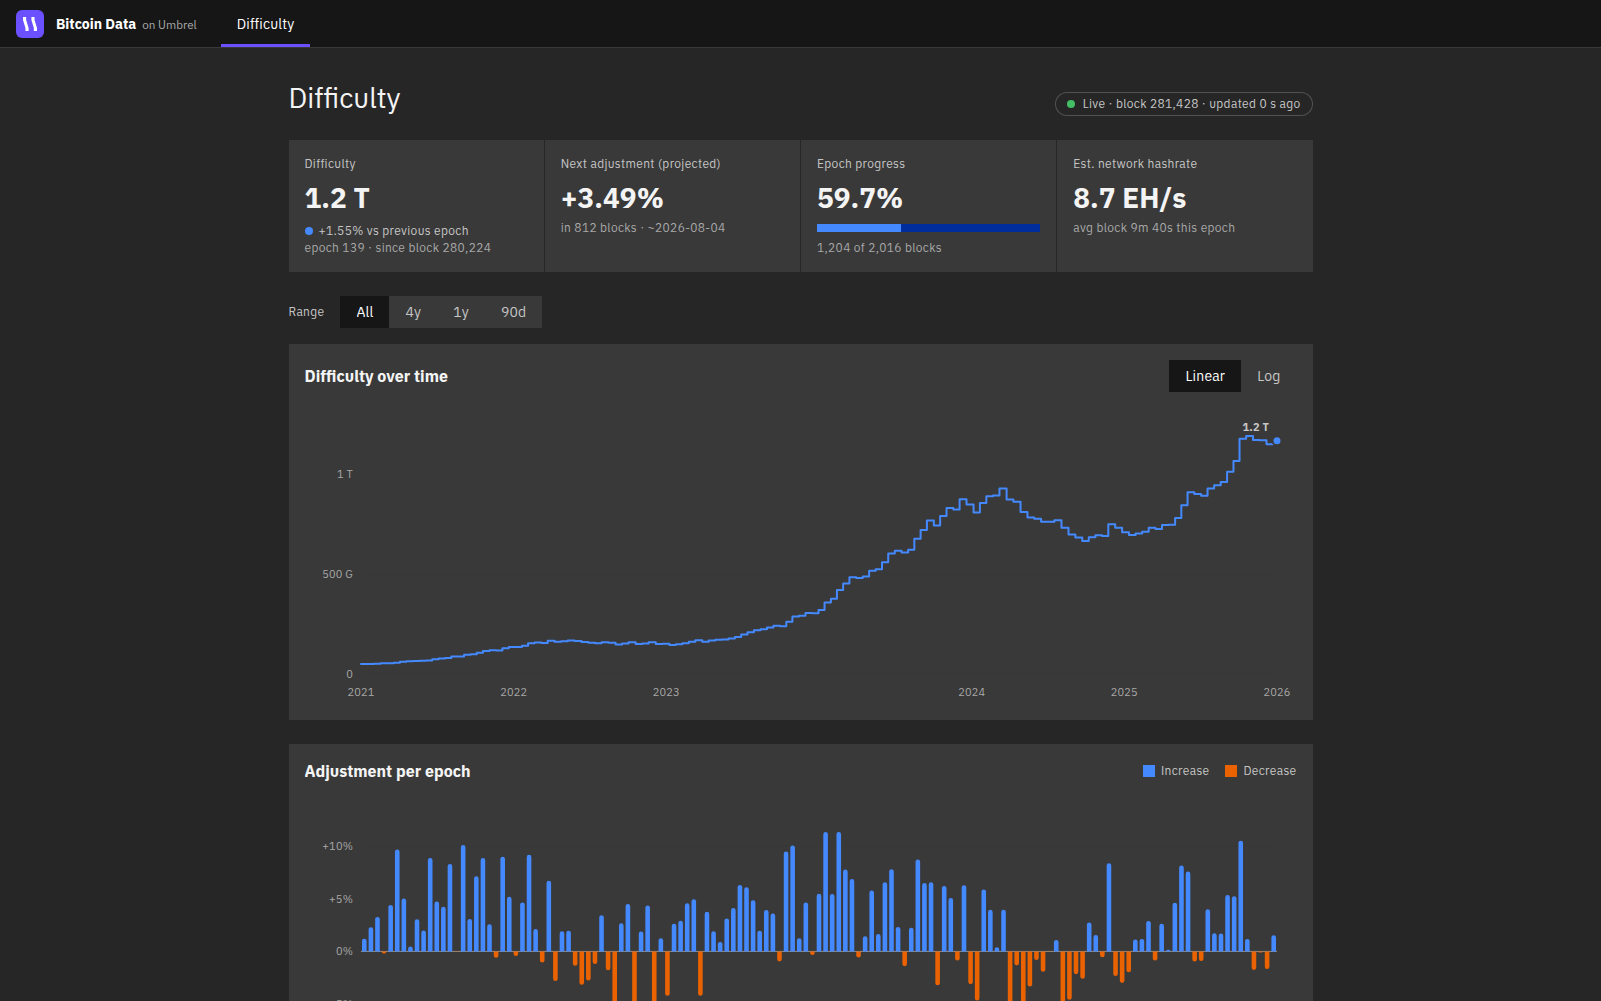
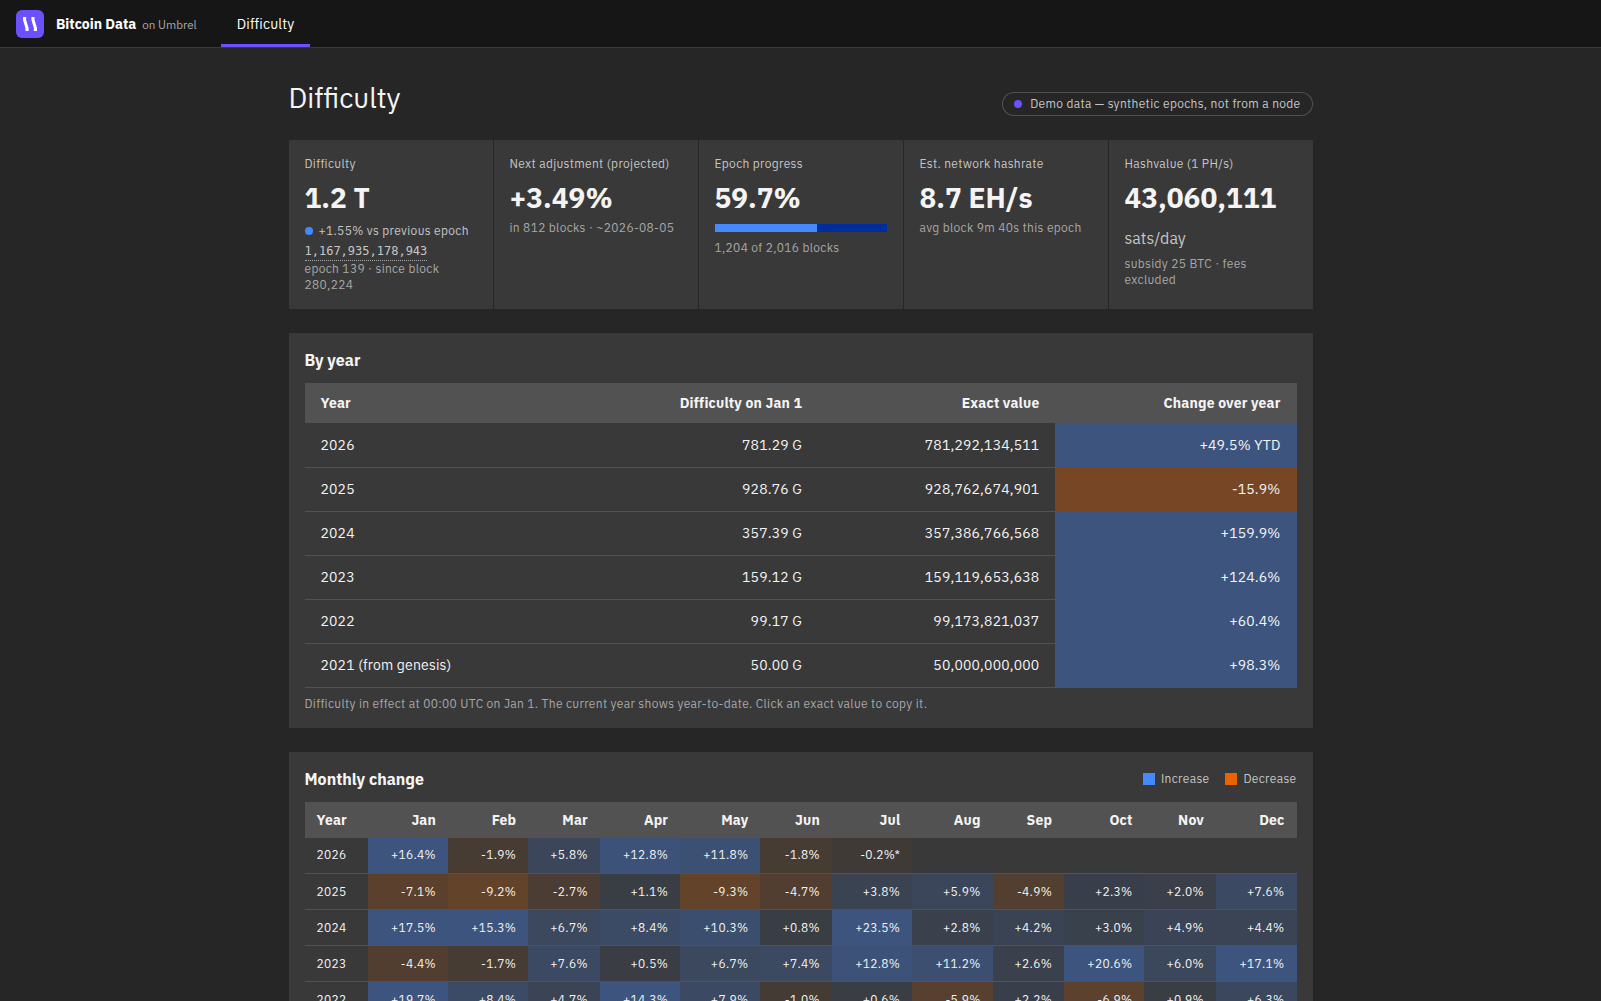
Add hashvalue, copyable exact difficulty, and annual/monthly views
- Hashvalue tile + epoch-table column + export field: expected subsidy
  earnings of 1 PH/s in sats/day (fees excluded), derived from each
  epoch's difficulty and its halving-era subsidy.
- Exact difficulty values: click-to-copy full integer in the Difficulty
  tile (current epoch) and on every Difficulty cell in the epoch table.
  Clipboard falls back to execCommand on plain-http origins (umbrel.local).
- By year card: difficulty in effect on Jan 1 (compact + copyable exact
  value) and change over the year, YTD for the current year.
- Monthly change card: year-by-month grid of difficulty change, diverging
  blue/orange tint behind text-token values, * marks month-to-date.
- Refresh gallery screenshots.

diff --git a/image-braiins-bitcoin-data/webui.py b/image-braiins-bitcoin-data/webui.py
@@ -43,6 +43,17 @@ FONTS = ("braiinssans-regular.woff2", "braiinssans-bold.woff2")
 EPOCH_BLOCKS = 2016
 TARGET_INTERVAL = 600  # seconds per block the retarget aims for
 TWO32 = 2 ** 32
+HALVING_BLOCKS = 210000
+
+
+def subsidy_btc(height):
+    return 50 / 2 ** (height // HALVING_BLOCKS)
+
+
+def hashvalue_sats(difficulty, height):
+    """Expected subsidy earnings of 1 PH/s in sats/day (fees excluded)."""
+    blocks_per_day = 1e15 * 86400 / (difficulty * TWO32)
+    return blocks_per_day * subsidy_btc(height) * 1e8
 
 
 class RpcError(Exception):
@@ -194,6 +205,7 @@ def build_rows(state):
         change = (difficulty / prev_diff - 1) if prev_diff else None
         row = {"epoch": i, "start_height": height, "start_time": start_time,
                "difficulty": difficulty, "change": change,
+               "hashvalue": hashvalue_sats(difficulty, height),
                "end_time": None, "blocks": None, "avg_interval": None,
                "hashrate": None, "current": False}
         if i + 1 < len(b):
@@ -249,6 +261,8 @@ def build_summary(state, rows):
         "avg_interval": avg, "hashrate": cur["hashrate"],
         "projected_change": projected,
         "eta": tip[1] + remaining * (avg or TARGET_INTERVAL),
+        "hashvalue": hashvalue_sats(cur["difficulty"], tip[0]),
+        "subsidy": subsidy_btc(tip[0]),
     })
     closed = [r for r in rows if r["change"] is not None and not r["current"]]
     if closed:
@@ -286,6 +300,7 @@ def export_rows(rows):
             "difficulty": r["difficulty"],
             "change_pct": round(r["change"] * 100, 4) if r["change"] is not None else None,
             "est_hashrate_hs": ("%.4g" % r["hashrate"]) if r["hashrate"] else None,
+            "hashvalue_sats_per_phs_day": round(r["hashvalue"], 1),
             "in_progress": r["current"],
         })
     return out
@@ -294,7 +309,7 @@ def export_rows(rows):
 def export_csv(rows):
     cols = ["epoch", "start_height", "start_time_utc", "end_time_utc", "blocks",
             "avg_block_interval_s", "difficulty", "change_pct",
-            "est_hashrate_hs", "in_progress"]
+            "est_hashrate_hs", "hashvalue_sats_per_phs_day", "in_progress"]
     lines = [",".join(cols)]
     for r in export_rows(rows):
         lines.append(",".join("" if r[c] is None else str(r[c]) for c in cols))
@@ -459,8 +474,7 @@ h2 { font: 400 28px/1.29 var(--font-sans); letter-spacing: 0; margin: 0; }
 #pill.demo .dot { background: var(--violet-60); }
 
 /* Stat tiles: flat layer fill, sharp corners, no shadow */
-.tiles { display: grid; grid-template-columns: repeat(4, 1fr); gap: 1px; margin-bottom: var(--spacing-06); }
-@media (max-width: 900px) { .tiles { grid-template-columns: repeat(2, 1fr); } }
+.tiles { display: grid; grid-template-columns: repeat(auto-fit, minmax(200px, 1fr)); gap: 1px; margin-bottom: var(--spacing-06); }
 @media (max-width: 480px) { .tiles { grid-template-columns: 1fr; } }
 .tile { background: var(--layer-01); padding: var(--spacing-05); min-height: 120px; }
 .tile .label { font: 400 12px/1.3333 var(--font-sans); letter-spacing: .32px; color: var(--text-secondary); }
@@ -472,6 +486,15 @@ h2 { font: 400 28px/1.29 var(--font-sans); letter-spacing: 0; margin: 0; }
 .dirdot { width: 8px; height: 8px; border-radius: 50%; flex-shrink: 0; }
 .dirdot.up { background: var(--data-pos); }
 .dirdot.down { background: var(--data-neg); }
+/* click-to-copy: exact values in mono, tooltips enhance, copy never gated */
+.copyline { display: inline-block; font: 400 12px/1.3333 var(--font-mono);
+  letter-spacing: 0; color: var(--text-secondary); cursor: pointer;
+  border-bottom: 1px dotted var(--border-strong); margin-top: var(--spacing-02);
+  font-variant-numeric: tabular-nums; }
+.copyline:hover { color: var(--link-primary); border-bottom-color: var(--link-primary); }
+.copyline:focus-visible { outline: 2px solid var(--focus); outline-offset: 1px; }
+td.copyable { cursor: pointer; }
+td.copyable:hover { text-decoration: underline dotted var(--border-strong); }
 .meter { height: 8px; background: var(--meter-track); margin: var(--spacing-03) 0 var(--spacing-03); }
 .meter i { display: block; height: 100%; background: var(--data-pos);
   transition: width var(--duration-fast-02) var(--ease-productive); }
@@ -543,6 +566,10 @@ tbody td .dirdot { display: inline-block; margin-right: 6px; }
 .ghost:hover { background: var(--layer-hover); color: var(--link-primary-hover); }
 .ghost:focus-visible { outline: 2px solid var(--focus); outline-offset: -2px; }
 
+/* calendar: year rows x month columns, diverging tint behind text-token values */
+.cal td, .cal th { height: 36px; padding: 0 var(--spacing-04); }
+.cal td { font: 400 12px/1.3333 var(--font-sans); letter-spacing: .32px; }
+.cal td.empty { color: var(--text-helper); background: var(--table-row); }
 .note { font: 400 12px/1.3333 var(--font-sans); letter-spacing: .32px; color: var(--text-helper);
   margin: var(--spacing-03) 0 0; }
 footer { margin-top: var(--spacing-07); font: 400 12px/1.3333 var(--font-sans);
@@ -563,6 +590,8 @@ footer { margin-top: var(--spacing-07); font: 400 12px/1.3333 var(--font-sans);
     <div class="tile"><div class="label">Difficulty</div>
       <div class="value" id="t-diff">—</div>
       <div class="delta" id="t-diff-delta"></div>
+      <span class="copyline" id="t-diff-full" role="button" tabindex="0"
+        title="Click to copy the exact value"></span>
       <div class="sub" id="t-diff-sub"></div></div>
     <div class="tile"><div class="label">Next adjustment (projected)</div>
       <div class="value" id="t-proj">—</div>
@@ -574,6 +603,27 @@ footer { margin-top: var(--spacing-07); font: 400 12px/1.3333 var(--font-sans);
     <div class="tile"><div class="label">Est. network hashrate</div>
       <div class="value" id="t-hash">—</div>
       <div class="sub" id="t-hash-sub">current epoch average</div></div>
+    <div class="tile"><div class="label">Hashvalue (1 PH/s)</div>
+      <div class="value" id="t-hv">—<small>sats/day</small></div>
+      <div class="sub" id="t-hv-sub">subsidy only, fees excluded</div></div>
+  </div>
+
+  <div class="card">
+    <div class="cardhead"><h3>By year</h3></div>
+    <div class="tablewrap"><table id="years">
+      <thead><tr><th>Year</th><th>Difficulty on Jan 1</th><th>Exact value</th><th>Change over year</th></tr></thead>
+      <tbody></tbody>
+    </table></div>
+    <p class="note">Difficulty in effect at 00:00 UTC on Jan 1. The current year shows year-to-date. Click an exact value to copy it.</p>
+  </div>
+
+  <div class="card">
+    <div class="cardhead"><h3>Monthly change</h3>
+      <span class="key"><span><i class="pos"></i>Increase</span><span><i class="neg"></i>Decrease</span></span></div>
+    <div class="tablewrap"><table id="months" class="cal">
+      <thead><tr></tr></thead><tbody></tbody>
+    </table></div>
+    <p class="note">Difficulty change from the first to the last moment of each month (UTC). * = month to date.</p>
   </div>
 
   <div class="filters">
@@ -655,6 +705,39 @@ function ago(ts) {
   if (s < 5400) return Math.round(s / 60) + " min ago";
   return Math.round(s / 3600) + " h ago";
 }
+function fmtFullInt(x) { return x == null ? "—" : Math.round(x).toLocaleString("en-US"); }
+
+// navigator.clipboard needs a secure context; umbrel.local is plain http,
+// so fall back to a temporary textarea + execCommand there.
+function copyText(text, el) {
+  const done = () => {
+    if (!el) return;
+    const orig = el.dataset.copyOrig || el.textContent;
+    el.dataset.copyOrig = orig;
+    el.textContent = "Copied";
+    setTimeout(() => { el.textContent = orig; }, 1200);
+  };
+  if (navigator.clipboard && window.isSecureContext) {
+    navigator.clipboard.writeText(text).then(done);
+  } else {
+    const ta = document.createElement("textarea");
+    ta.value = text; ta.style.position = "fixed"; ta.style.opacity = "0";
+    document.body.appendChild(ta); ta.select();
+    try { document.execCommand("copy"); done(); } finally { ta.remove(); }
+  }
+}
+
+// difficulty in effect at unix time t (last epoch starting at or before t)
+function diffAt(t) {
+  const rows = S.rows;
+  if (!rows.length || t < rows[0].start_time) return null;
+  let lo = 0, hi = rows.length - 1;
+  while (lo < hi) {
+    const mid = (lo + hi + 1) >> 1;
+    if (rows[mid].start_time <= t) lo = mid; else hi = mid - 1;
+  }
+  return rows[lo].difficulty;
+}
 
 // -- data ---------------------------------------------------------------------
 async function fetchAll() {
@@ -710,6 +793,90 @@ function renderTiles() {
   set("t-hash", fmtHash(s.hashrate));
   set("t-hash-sub", s.avg_interval != null
     ? "avg block " + fmtInterval(s.avg_interval) + " this epoch" : "current epoch average");
+  const hv = document.getElementById("t-hv");
+  hv.textContent = "";
+  hv.appendChild(document.createTextNode(s.hashvalue != null ? fmtFullInt(s.hashvalue) : "—"));
+  const unit = document.createElement("small"); unit.textContent = " sats/day";
+  hv.appendChild(unit);
+  set("t-hv-sub", s.subsidy != null
+    ? "subsidy " + s.subsidy + " BTC · fees excluded" : "subsidy only, fees excluded");
+  const full = document.getElementById("t-diff-full");
+  delete full.dataset.copyOrig;
+  full.textContent = s.difficulty != null ? fmtFullInt(s.difficulty) : "";
+}
+
+// -- calendar: annual table + year-by-month diverging grid ----------------------
+function tint(varName, mag) {
+  // series-hue wash behind text-token values; capped so text stays readable
+  const hex = cssVar(varName);
+  const r = parseInt(hex.slice(1, 3), 16), g = parseInt(hex.slice(3, 5), 16), b = parseInt(hex.slice(5, 7), 16);
+  const a = Math.min(0.35, 0.04 + mag * 2.2);
+  return "rgba(" + r + "," + g + "," + b + "," + a + ")";
+}
+function changeCell(td, change, suffix) {
+  td.style.background = tint(change >= 0 ? "--data-pos" : "--data-neg", Math.abs(change));
+  td.style.textAlign = "right";
+  td.appendChild(document.createTextNode(fmtPct(change, 1) + (suffix || "")));
+  td.title = fmtPct(change, 2);
+}
+function renderCalendar() {
+  if (!S.rows.length) return;
+  const rows = S.rows, now = tipTime();
+  const curDiff = rows[rows.length - 1].difficulty;
+  const first = rows[0].start_time;
+  const valAt = t => t >= now ? curDiff : (diffAt(t) != null ? diffAt(t) : rows[0].difficulty);
+  const y0 = new Date(first * 1000).getUTCFullYear();
+  const y1 = new Date(now * 1000).getUTCFullYear();
+
+  // annual table, newest first; current year is YTD
+  const ytbody = document.querySelector("#years tbody");
+  ytbody.textContent = "";
+  for (let y = y1; y >= y0; y--) {
+    const t0 = Date.UTC(y, 0, 1) / 1000, t1 = Date.UTC(y + 1, 0, 1) / 1000;
+    const start = valAt(Math.max(t0, first)), end = valAt(t1), ytd = t1 > now;
+    const tr = document.createElement("tr");
+    const cells = [String(y) + (t0 < first ? " (from genesis)" : ""), fmtCompact(start, 2)];
+    for (const c of cells) {
+      const td = document.createElement("td"); td.textContent = c; tr.appendChild(td);
+    }
+    const exact = document.createElement("td");
+    exact.className = "copyable"; exact.textContent = fmtFullInt(start);
+    exact.title = "Click to copy " + Math.round(start);
+    exact.addEventListener("click", () => copyText(String(Math.round(start)), exact));
+    tr.appendChild(exact);
+    const ch = document.createElement("td");
+    changeCell(ch, end / start - 1, ytd ? " YTD" : "");
+    tr.appendChild(ch);
+    ytbody.appendChild(tr);
+  }
+  document.querySelector("#years thead th:first-child").style.textAlign = "left";
+
+  // monthly grid: rows = years (newest first), columns = Jan..Dec
+  const MONTHS = ["Jan","Feb","Mar","Apr","May","Jun","Jul","Aug","Sep","Oct","Nov","Dec"];
+  const mhead = document.querySelector("#months thead tr");
+  mhead.textContent = "";
+  const th0 = document.createElement("th"); th0.textContent = "Year";
+  th0.style.textAlign = "left"; mhead.appendChild(th0);
+  for (const m of MONTHS) { const th = document.createElement("th"); th.textContent = m; mhead.appendChild(th); }
+  const mbody = document.querySelector("#months tbody");
+  mbody.textContent = "";
+  for (let y = y1; y >= y0; y--) {
+    const tr = document.createElement("tr");
+    const td0 = document.createElement("td"); td0.textContent = String(y);
+    td0.style.textAlign = "left"; tr.appendChild(td0);
+    for (let m = 0; m < 12; m++) {
+      const t0 = Date.UTC(y, m, 1) / 1000, t1 = Date.UTC(y, m + 1, 1) / 1000;
+      const td = document.createElement("td");
+      if (t0 > now || t1 <= first) {
+        td.className = "empty"; td.textContent = "";
+      } else {
+        const mtd = t1 > now;
+        changeCell(td, valAt(t1) / valAt(Math.max(t0, first)) - 1, mtd ? "*" : "");
+      }
+      tr.appendChild(td);
+    }
+    mbody.appendChild(tr);
+  }
 }
 
 // -- svg helpers ----------------------------------------------------------------
@@ -929,6 +1096,7 @@ const COLS = [
   { key: "difficulty", label: "Difficulty", fmt: r => fmtCompact(r.difficulty, 2) },
   { key: "change", label: "Change", fmt: null },   // rendered with a direction dot
   { key: "hashrate", label: "Est. hashrate", fmt: r => fmtHash(r.hashrate) },
+  { key: "hashvalue", label: "Hashvalue", fmt: r => fmtCompact(r.hashvalue, 1) + " sats" },
 ];
 function durOf(r) {
   return r.avg_interval != null && r.blocks ? r.avg_interval * r.blocks : null;
@@ -981,6 +1149,11 @@ function renderTable() {
           td.appendChild(dot);
           td.appendChild(document.createTextNode(fmtPct(r.change)));
         }
+      } else if (c.key === "difficulty") {
+        td.className = "copyable";
+        td.textContent = c.fmt(r);
+        td.title = fmtFullInt(r.difficulty) + " — click to copy";
+        td.addEventListener("click", () => copyText(String(Math.round(r.difficulty)), td));
       } else td.textContent = c.fmt(r);
       row.appendChild(td);
     }
@@ -993,7 +1166,17 @@ function renderTable() {
 }
 
 // -- wiring ---------------------------------------------------------------------
-function render() { renderPill(); renderTiles(); drawDiff(); drawAdj(); renderTable(); }
+function render() { renderPill(); renderTiles(); renderCalendar(); drawDiff(); drawAdj(); renderTable(); }
+
+const diffFull = document.getElementById("t-diff-full");
+function copyCurrentDifficulty() {
+  const s = S.summary;
+  if (s && s.difficulty != null) copyText(String(Math.round(s.difficulty)), diffFull);
+}
+diffFull.addEventListener("click", copyCurrentDifficulty);
+diffFull.addEventListener("keydown", ev => {
+  if (ev.key === "Enter" || ev.key === " ") { ev.preventDefault(); copyCurrentDifficulty(); }
+});
 
 document.getElementById("range").addEventListener("click", ev => {
   const b = ev.target.closest("button"); if (!b) return;
